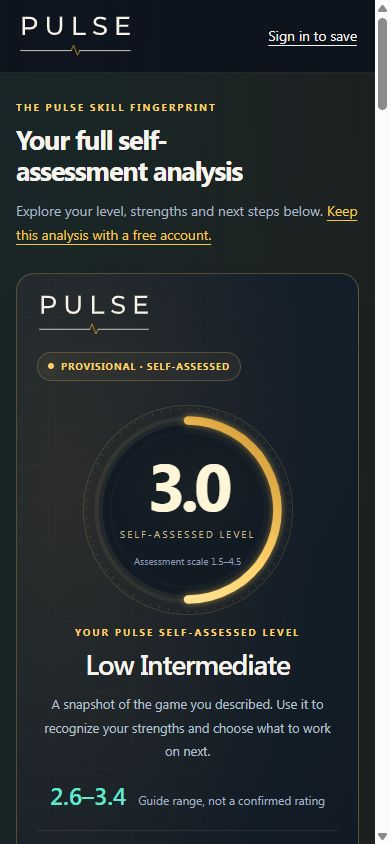
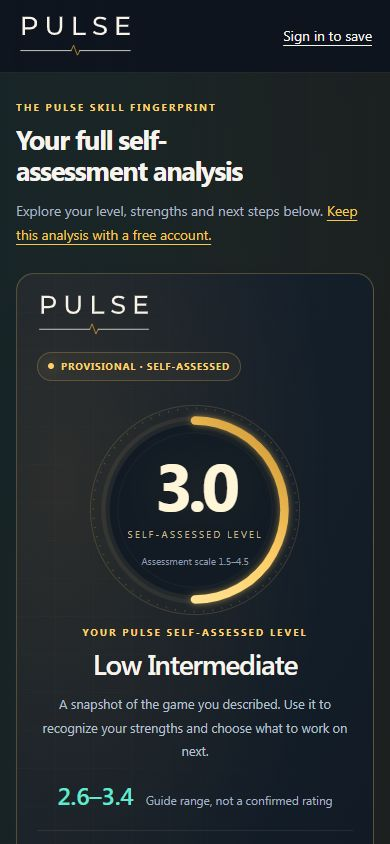
Show complete screenshots and expand homepage tour

diff --git a/tests/marketing/browser/socialFixture.ts b/tests/marketing/browser/socialFixture.ts
@@ -1,0 +1,79 @@
+// Local screenshot data only. All page and shell components are production code.
+// Reads resolve locally; writes fail, and this module never opens a connection.
+import type { FriendWithProfile } from '../../../src/lib/social/friends';
+import type { GroupWithMembership } from '../../../src/hooks/useGroups';
+import type { DirectMessage } from '../../../src/hooks/useDirectMessages';
+
+const noop = () => undefined;
+const blocked = () => { throw new Error('Screenshot fixtures cannot write data.'); };
+const date = '2026-09-23T14:00:00Z';
+const user = { id: 'demo-0' };
+const profile = {
+  id: user.id, full_name: 'Alex Morgan', display_name: 'Alex Morgan',
+  first_name: 'Alex', last_name: 'Morgan', name_locked: true,
+  tutorial_completed: true, player_state: 'active', avatar_url: null,
+  current_rating: 4.25, week_start_rating: 4.21, total_matches: 47,
+  wins: 29, losses: 18, total_points_for: 420, total_points_against: 370,
+  avg_opponent_rating: 4.1, town: 'Boston', state: 'Massachusetts',
+};
+const friends: FriendWithProfile[] = ['Jordan Lee', 'Sam Rivera', 'Taylor Chen', 'Casey Brooks'].map((name, index) => ({
+  id: `friendship-${index}`, user_id: user.id, friend_id: `demo-${index + 1}`,
+  status: 'accepted', created_at: date, accepted_at: date,
+  profile: { id: `demo-${index + 1}`, full_name: name, display_name: name, avatar_url: null, current_rating: [4.1, 3.8, 4.0, 3.6][index], gender: null, handle: name.toLowerCase().replace(' ', '') },
+}));
+const onlineFriends = new Set(['demo-1', 'demo-2']);
+const groups: GroupWithMembership[] = [
+  { name: 'Saturday Court Crew', description: 'Good games and familiar faces. Saturdays at 9.', type: 'crew', member_count: 12 },
+  { name: 'Riverside Open Play', description: 'Meet local players. Find your next game.', type: 'open_play', member_count: 36 },
+  { name: 'Weeknight League', description: 'A new match. A shared season.', type: 'league', member_count: 24 },
+].map((group, index) => ({
+  ...group, type: group.type as GroupWithMembership['type'], id: `group-${index}`,
+  visibility: 'public', join_method: 'open', invite_code: null, invite_code_expires_at: null,
+  cover_url: null, icon_url: null, venue_id: null, court_id: null, created_by: user.id,
+  settings: {}, created_at: date, updated_at: date, unread_count: index === 0 ? 2 : 0,
+  membership: { id: `member-${index}`, group_id: `group-${index}`, user_id: user.id, role: 'member', status: 'active', last_read_at: date, joined_at: date },
+}));
+const messages: DirectMessage[] = [
+  ['demo-1', 'Up for pickleball on Saturday?'],
+  ['demo-0', 'Absolutely! Riverside at 9?'],
+  ['demo-1', 'Perfect. Sam and Taylor are in too.'],
+  ['demo-0', 'Great — doubles it is. I’ll bring the balls.'],
+  ['demo-1', 'See you on court!'],
+].map(([sender_id, content], index) => ({ id: `message-${index}`, conversation_id: 'demo-chat', sender_id, content, created_at: `2026-09-23T14:0${index}:00Z`, _status: 'sent' }));
+const participant = { ...friends[0].profile, user_id: friends[0].profile.id };
+const conversations = [{ id: 'demo-chat', updated_at: date, participant, lastMessage: messages[4], unreadCount: 0, isMuted: false, leftAt: null }];
+
+export const useAuthState = () => ({ user, profile, loading: false, session: null, signOut: blocked, refreshProfile: noop });
+export const useFriends = () => ({ friends, pendingRequests: [], sentRequests: [], loading: false, error: null, isPending: () => false, getFriendshipStatus: () => 'accepted', refetch: noop, acceptRequest: blocked, declineRequest: blocked, cancelRequest: blocked, removeFriend: blocked, sendFriendRequest: blocked });
+export const useFriendsPresence = () => ({ onlineFriends, isConnected: true, isOnline: (id: string) => onlineFriends.has(id), onlineCount: onlineFriends.size });
+export const useFriendSuggestions = () => ({ suggestions: [], loading: false, error: null, refetch: noop, dismissSuggestion: blocked });
+export const useGroups = () => ({ myGroups: groups, publicGroups: groups, loading: false, createGroup: blocked, joinGroupByCode: blocked, joinPublicGroup: blocked, updateGroupOrder: blocked });
+export const useDirectMessages = () => ({ conversations, loading: false, error: null, totalUnread: 0, currentUserId: user.id, startConversation: async () => 'demo-chat', markRead: async () => true, refetch: noop, setMuted: blocked, leaveConversation: blocked });
+export const useConversation = () => ({ messages, loading: false, hasMore: false, loadingOlder: false, loadOlder: noop, participant, viewerMembership: { isMuted: false, leftAt: null }, currentUserId: user.id, notFound: false, sendMessage: blocked, retryMessage: blocked });
+export const useTypingIndicator = () => ({ typingUsers: [], startTyping: noop, stopTyping: noop });
+export const useBlockedUsers = () => ({ blockedUsers: [], loading: false, block: blocked, unblock: blocked });
+export const reportUser = blocked;
+export const useNotifications = () => ({ notifications: [], loading: false, unreadCount: 0, markAsRead: noop, markAllAsRead: noop, deleteNotification: blocked, clearAll: blocked, groupedByTime: {} });
+export const usePushSubscription = () => ({ state: 'enabled', busy: false, supported: false, enable: blocked });
+export const useMyLeagues = () => ({ rows: [], loading: false, error: null });
+export const useMyUpcomingLeagueMatches = () => ({ rows: [], loading: false, error: null });
+export const useUpcomingRegisteredEvents = () => ({ data: [], isLoading: false });
+export const fetchUserRoundRobinEvents = async () => [{ event: { id: 'demo-rr', name: 'Saturday Court Crew', date: '2026-09-26', status: 'live', current_round: 2, num_rounds: 6, num_courts: 2, organizer_id: 'demo-2', voided: false }, role: 'player' }];
+
+function query(table: string) {
+  let single = false;
+  const result = () => ({ data: table === 'profiles' || table === 'profiles_public' ? (single ? profile : [profile]) : single ? null : [], error: null, count: 0 });
+  const chain = new Proxy({}, { get: (_target, property) => {
+    if (property === 'then') return (resolve: (value: ReturnType<typeof result>) => unknown) => Promise.resolve(result()).then(resolve);
+    if (['insert', 'update', 'upsert', 'delete'].includes(String(property))) return blocked;
+    if (property === 'single' || property === 'maybeSingle') return () => { single = true; return chain; };
+    return () => chain;
+  } });
+  return chain;
+}
+const channel = { on: () => channel, subscribe: () => channel, unsubscribe: noop, untrack: noop, track: noop, presenceState: () => ({}) };
+export const supabase = {
+  auth: { getUser: async () => ({ data: { user } }), getSession: async () => ({ data: { session: { user } } }), onAuthStateChange: () => ({ data: { subscription: { unsubscribe: noop } } }), signOut: blocked },
+  from: query, channel: () => channel, removeChannel: noop, rpc: async () => ({ data: [], error: null }),
+  functions: { invoke: blocked }, storage: { from: blocked },
+};

diff --git a/src/components/homepage/marketing.css b/src/components/homepage/marketing.css
@@ -64,9 +64,9 @@
 .mkt-tour-copy { min-height: 76px; }
 .mkt-tour-copy h2 { color: #fff5de; font-size: clamp(19px, 2vw, 25px); line-height: 1.3; letter-spacing: -.025em; }
 .mkt-tour-copy p { color: #bdcdd2; font-size: 12px; line-height: 1.6; margin-top: 7px; }
-.mkt-screen-window { display: block; position: relative; width: 100%; max-width: 390px; margin-inline: auto; height: 392px; padding: 0; overflow: hidden; border-radius: 15px; border: 1px solid #ffffff30; background: #101a24; cursor: zoom-in; }
-.mkt-screen-window img { width: 100%; height: 100%; object-fit: cover; }
-.mkt-screen-expand { position: absolute; right: 10px; top: 10px; display: flex; align-items: center; gap: 6px; padding: 9px 11px; border: 1px solid #ffffff55; border-radius: 30px; background: #111c28ed; color: #fff6df; font-size: 10px; font-weight: 600; }
+.mkt-screen-window { display: block; position: relative; width: 100%; max-width: 260px; margin-inline: auto; height: auto; padding: 0; overflow: hidden; border-radius: 15px; border: 1px solid #ffffff30; background: #101a24; cursor: zoom-in; }
+.mkt-screen-window img { display: block; width: 100%; height: auto; aspect-ratio: 390 / 844; object-fit: contain; }
+.mkt-screen-expand { display: flex; align-items: center; justify-content: center; min-height: 40px; gap: 6px; padding: 9px 11px; border-top: 1px solid #ffffff30; background: #111c28ed; color: #fff6df; font-size: 10px; font-weight: 600; }
 .mkt-tour figcaption { margin-top: 9px; text-align: center; color: #a9bfc5; font-size: 10px; }
 .mkt-tour-controls { display: flex; align-items: center; justify-content: space-between; gap: 12px; margin-top: 10px; }
 .mkt-tour-arrow { display: grid; place-items: center; width: 44px; height: 44px; flex-shrink: 0; border: 1px solid #ffffff30; border-radius: 50%; color: #fff3d6; }
@@ -74,7 +74,7 @@
 .mkt-tour-arrow:disabled { opacity: .3; cursor: default; }
 .mkt-tour-controls p { display: flex; align-items: center; gap: 12px; font-size: 12px; }
 .mkt-tour-controls p span { color: #a9bfc5; font-variant-numeric: tabular-nums; font-size: 10px; }
-.mkt-tour-pills { display: grid; grid-template-columns: repeat(4,minmax(0,1fr)); gap: 5px; margin-top: 12px; }
+.mkt-tour-pills { display: grid; grid-template-columns: repeat(4,minmax(0,1fr)); gap: 5px; margin-block: 0 16px; }
 .mkt-tour-pills button { min-height: 44px; padding: 7px 3px; border-radius: 8px; border: 1px solid #ffffff1c; font-size: 10px; color: #bfcfd2; line-height: 1.3; }
 .mkt-tour-pills button[aria-pressed=true] { color: #111c28; background: #8de6ce; border-color: #8de6ce; font-weight: 700; }
 .mkt-screen-dialog[role="dialog"] { width: min(calc(100% - 24px), 460px); max-width: 460px; max-height: 92vh; max-height: 92dvh; overflow-y: auto; padding: 22px 16px 16px; border-radius: 18px; background: #16232e; color: #fff5df; }
@@ -144,10 +144,10 @@
   .mkt-nav-inner { min-height: 68px; }
   .mkt-hero-grid { gap: 30px; } .mkt-hero h1 { font-size: 50px; }
   .mkt-hero-description { font-size: 16px; }
-  .mkt-tour { padding: 14px; } .mkt-screen-window { height: 340px; }
+  .mkt-tour { padding: 14px; } .mkt-screen-window { max-width: 240px; }
   .mkt-tour-copy { min-height: 85px; } .mkt-tour-copy h2 { font-size: 20px; }
   .mkt-tour-hint { font-size: 9px; }
-  .mkt-tour-pills { grid-template-columns: repeat(2,minmax(0,1fr)); }
+
   .mkt-assessment-inner { grid-template-columns: auto 1fr; } .mkt-assessment-inner > .mkt-button { grid-column: 2; justify-self: start; }
   .mkt-organizer-grid { gap: 28px; } .mkt-faq-grid { grid-template-columns: 1fr; gap: 0; }
   .mkt-closing-grid { grid-template-columns: 1fr; gap: 28px; } .mkt-closing-actions { justify-self: start; }
@@ -167,8 +167,8 @@
   .mkt-tour { padding: 14px; border-radius: 20px; }
   .mkt-tour-top { margin-bottom: 12px; } .mkt-tour-copy { min-height: 73px; } .mkt-tour-copy h2 { font-size: 20px; }
   .mkt-tour-copy p { font-size: 11px; }
-  .mkt-screen-window { height: 310px; }
-  .mkt-tour-pills { grid-template-columns: repeat(4,minmax(0,1fr)); gap: 4px; margin-top: 8px; }
+  .mkt-screen-window { max-width: 260px; }
+  .mkt-tour-pills { grid-template-columns: repeat(4,minmax(0,1fr)); gap: 4px; margin-block: 0 14px; }
   .mkt-tour-pills button { font-size: 9px; }
   .mkt-tour-controls { margin-top: 7px; } .mkt-tour-controls p { font-size: 11px; }
   .mkt-section { padding-block: 42px; } .mkt-section-heading { margin-bottom: 22px; }

diff --git a/tests/marketing/browser/capture.html b/tests/marketing/browser/capture.html
@@ -1,4 +1,16 @@
-<!doctype html><html lang="en"><head><meta charset="utf-8"><meta name="viewport" content="width=device-width,initial-scale=1"><title>PULSE · Screenshot studio</title><style>body{margin:0;min-height:844px;background:#30343a;font:14px system-ui;color:white}header{position:absolute;left:430px;top:24px;display:flex;gap:12px;align-items:center}select{padding:10px;color:black}iframe{position:absolute;left:0;top:0;display:block;border:0;width:390px;height:844px;background:#121c28}</style></head><body><header><label>Screen <select id="screen"><option value="profile">Profile</option><option value="round-robin">Round robin</option><option value="league">League</option><option value="assessment">Assessment</option><option value="home">Homepage</option><option value="home-dark">Homepage (dark)</option></select></label><label>Width <select id="width"><option>320</option><option selected>390</option><option>768</option><option>1440</option></select></label></header><iframe title="Actual PULSE screen" src="http://127.0.0.1:5209/tests/profile/browser/index.html?short-name&member&marketing"></iframe><script>
-const sources={profile:'http://127.0.0.1:5209/tests/profile/browser/index.html?short-name&member&marketing','round-robin':'http://127.0.0.1:5208/tests/round-robin/event-browser/index.html?player&dark',league:'/tests/marketing/browser/index.html?league&dark',assessment:'http://127.0.0.1:5198/tests/skill/browser/index.html?capture',home:'/tests/marketing/browser/index.html','home-dark':'/tests/marketing/browser/index.html?dark'};
-document.querySelector('#screen').addEventListener('change',event=>{document.querySelector('iframe').src=sources[event.target.value]});document.querySelector('#width').addEventListener('change',event=>{document.querySelector('iframe').style.width=event.target.value+'px'});
+<!doctype html>
+<html lang="en"><head><meta charset="utf-8"><meta name="viewport" content="width=device-width,initial-scale=1"><title>PULSE · Screenshot studio</title>
+<style>html,body{overflow:hidden}body{margin:0;min-height:844px;background:#30343a;font:14px system-ui;color:white}header{position:absolute;left:430px;top:24px;display:flex;gap:12px;align-items:center}select{padding:10px;color:black}iframe{position:absolute;left:0;top:0;display:block;border:0;width:390px;height:844px;background:#121c28}</style></head>
+<body><header><label>Screen <select id="screen"><option value="app-home">App home</option><option value="friends">Friends</option><option value="chat">Chat</option><option value="communities">Communities</option><option value="profile">Profile</option><option value="round-robin">Round robin</option><option value="league">League</option><option value="assessment">Assessment</option><option value="home">Homepage</option><option value="home-dark">Homepage (dark)</option></select></label><label>Width <select id="width"><option>320</option><option selected>390</option><option>768</option><option>1440</option></select></label></header>
+<iframe title="Actual PULSE screen" src="/tests/marketing/browser/index.html?screen=app-home&dark&capture"></iframe>
+<script>
+const sources={
+  ...Object.fromEntries(['app-home','friends','chat','communities','profile'].map(screen=>[screen,'/tests/marketing/browser/index.html?screen='+screen+'&dark&capture'])),
+  'round-robin':'http://127.0.0.1:5208/tests/round-robin/event-browser/index.html?player&dark&capture',
+  league:'/tests/marketing/browser/index.html?league&dark&capture',
+  assessment:'http://127.0.0.1:5198/tests/skill/browser/index.html?capture',
+  home:'/tests/marketing/browser/index.html','home-dark':'/tests/marketing/browser/index.html?dark'
+};
+document.querySelector('#screen').addEventListener('change',event=>{document.querySelector('iframe').src=sources[event.target.value]});
+document.querySelector('#width').addEventListener('change',event=>{document.querySelector('iframe').style.width=event.target.value+'px'});
 </script></body></html>

diff --git a/src/components/homepage/productScreens.ts b/src/components/homepage/productScreens.ts
@@ -1,9 +1,13 @@
-/** Unedited browser captures of production components with local demo data.
+/** Browser captures of production screens with local demo data.
  * Capture sources and refresh instructions: tests/marketing/browser/README.md.
  */
 export const productScreens = [
-  { key: 'assessment', label: 'Skill assessment', title: 'Know what to work on next.', description: 'Your level, your strengths, your next focus.', src: '/images/product/assessment.jpg', alt: 'PULSE self-assessment report with a provisional level, guide range and evidence support.', position: 'center 65%', accent: 'teal' },
-  { key: 'profile', label: 'Your PULSE', title: 'Keep your game together.', description: 'Your rating, results, events and connections.', src: '/images/product/profile.jpg', alt: 'PULSE player profile showing a rating, match count, win–loss record and community links.', position: 'top', accent: 'gold' },
-  { key: 'round-robin', label: 'Round robins', title: 'Less organizing. More playing.', description: 'Know your court, your partner and who’s up next.', src: '/images/product/round-robin.jpg', alt: 'PULSE live round-robin screen showing Court 1, both teams and the player’s next round.', position: 'center', accent: 'gold' },
-  { key: 'league', label: 'Leagues', title: 'Give every game a bigger story.', description: 'Follow your season, scores and standings.', src: '/images/product/league.jpg', alt: 'PULSE league page with confirmed results and ranked player standings.', position: 'center 35%', accent: 'teal' },
+  { key: 'app-home', label: 'App home', title: 'Your game starts here.', description: 'Your stats, next games and quick actions.', src: '/images/product/app-home.jpg', alt: 'PULSE app home with player stats, quick actions and bottom navigation.' },
+  { key: 'friends', label: 'Friends', title: 'Find your next doubles partner.', description: 'Keep your friends and playing partners close.', src: '/images/product/friends.jpg', alt: 'PULSE Friends page showing connected players, online status and message buttons.' },
+  { key: 'chat', label: 'Chat', title: 'Turn a message into a match.', description: 'Make plans in a direct conversation.', src: '/images/product/chat.jpg', alt: 'PULSE direct chat showing a conversation arranging a Saturday doubles game.' },
+  { key: 'communities', label: 'Communities', title: 'Make your crew feel connected.', description: 'One place for your groups, clubs and leagues.', src: '/images/product/communities.jpg', alt: 'PULSE Community page showing pickleball groups, member counts and unread updates.' },
+  { key: 'assessment', label: 'Skill assessment', title: 'Know what to work on next.', description: 'Your level, your strengths, your next focus.', src: '/images/product/assessment.jpg', alt: 'PULSE self-assessment report with a provisional level, guide range and evidence support.' },
+  { key: 'profile', label: 'Your PULSE', title: 'Keep your game together.', description: 'Your rating, results, events and connections.', src: '/images/product/profile.jpg', alt: 'PULSE player profile showing a rating, match count, win–loss record and community links.' },
+  { key: 'round-robin', label: 'Round robins', title: 'Less organizing. More playing.', description: 'Know your court, your partner and who’s up next.', src: '/images/product/round-robin.jpg', alt: 'PULSE live round-robin screen showing Court 1, both teams and the player’s next round.' },
+  { key: 'league', label: 'Leagues', title: 'Give every game a bigger story.', description: 'Follow your season, scores and standings.', src: '/images/product/league.jpg', alt: 'PULSE league overview showing the league name, season record and Standings navigation.' },
 ] as const;

diff --git a/src/components/homepage/FeatureTour.tsx b/src/components/homepage/FeatureTour.tsx
@@ -37,13 +37,14 @@ export function FeatureTour() {
 
   return <div ref={region} className="mkt-tour" id="product-tour" role="region" aria-roledescription="carousel" aria-label="Explore PULSE features" tabIndex={0} onKeyDown={keyboard}>
     <div className="mkt-tour-top"><span><i aria-hidden="true" /> INSIDE PULSE</span><span className="mkt-tour-hint">Swipe or choose a feature</span></div>
+    <div className="mkt-tour-pills" role="group" aria-label="Choose a feature">{screens.map((screen, index) => <button key={screen.key} type="button" aria-pressed={index === selected} onClick={() => api?.scrollTo(index)}>{screen.label}</button>)}</div>
     <div className="mkt-tour-viewport" ref={viewport}>
       <div className="mkt-tour-track">
-        {screens.map((screen, index) => <div className={`mkt-tour-slide mkt-tour-${screen.accent}`} key={screen.key} role="group" aria-roledescription="slide" aria-label={`${index + 1} of ${screens.length}: ${screen.label}`} aria-hidden={index !== selected}>
+        {screens.map((screen, index) => <div className="mkt-tour-slide" key={screen.key} role="group" aria-roledescription="slide" aria-label={`${index + 1} of ${screens.length}: ${screen.label}`} aria-hidden={index !== selected}>
           <div className="mkt-tour-copy"><h2>{screen.title}</h2><p>{screen.description}</p></div>
           <figure>
             <button type="button" className="mkt-screen-window" onClick={event => { opener.current = event.currentTarget; setExpanded(index); }} tabIndex={index === selected ? 0 : -1} aria-label={`Enlarge ${screen.label.toLowerCase()} screenshot`}>
-              <img src={screen.src} alt={screen.alt} width={390} height={844} loading={index === 0 ? 'eager' : 'lazy'} fetchPriority={index === 0 ? 'high' : 'auto'} decoding="async" style={{ objectPosition: screen.position }} />
+              <img src={screen.src} alt={screen.alt} width={390} height={844} loading={index === 0 ? 'eager' : 'lazy'} fetchPriority={index === 0 ? 'high' : 'auto'} decoding="async" />
               <span className="mkt-screen-expand"><Expand aria-hidden="true" size={14} /> View screen</span>
             </button>
             <figcaption>Actual PULSE screen · Demo data</figcaption>
@@ -56,7 +57,6 @@ export function FeatureTour() {
       <p aria-live="polite" aria-atomic="true"><strong>{screens[selected].label}</strong><span>{selected + 1} / {screens.length}</span></p>
       <button type="button" className="mkt-tour-arrow" aria-label="Next feature" disabled={selected === screens.length - 1} onClick={() => api?.scrollNext()}><ArrowRight aria-hidden="true" size={18} /></button>
     </div>
-    <div className="mkt-tour-pills" role="group" aria-label="Choose a feature">{screens.map((screen, index) => <button key={screen.key} type="button" aria-pressed={index === selected} onClick={() => api?.scrollTo(index)}>{screen.label}</button>)}</div>
     <Dialog open={expanded !== null} onOpenChange={open => { if (!open) setExpanded(null); }}>
       <DialogContent className="mkt-screen-dialog" onCloseAutoFocus={event => { event.preventDefault(); opener.current?.focus(); }}>
         <DialogTitle>{expanded !== null ? screens[expanded].label : 'PULSE screen'}</DialogTitle>

diff --git a/tests/marketing/browser/preview.tsx b/tests/marketing/browser/preview.tsx
@@ -5,8 +5,32 @@ import { HelmetProvider } from 'react-helmet-async';
 import { ThemeProvider } from 'next-themes';
 import { PublicHomepage } from '../../../src/components/homepage/PublicHomepage';
 import PlayerLeagueDetail from '../../../src/pages/player/PlayerLeagueDetail';
+import Dashboard from '../../../src/pages/Dashboard';
+import Friends from '../../../src/pages/player/Friends';
+import DirectMessageChat from '../../../src/pages/player/DirectMessageChat';
+import Community from '../../../src/pages/player/Community';
+import PlayerProfile from '../../../src/pages/player/PlayerProfile';
+import { PlayerShell } from '../../../src/components/layout/PlayerShell';
+import { ActiveViewProvider } from '../../../src/contexts/ActiveViewContext';
+import { QueryClient, QueryClientProvider } from '@tanstack/react-query';
 import '../../../src/index.css';
 import '../../../src/components/homepage/marketing.css';
+import './capture.css';
 
 const params = new URLSearchParams(window.location.search);
-createRoot(document.getElementById('root')!).render(<ThemeProvider attribute="class" forcedTheme={params.has('dark') ? 'dark' : 'light'}><HelmetProvider><MemoryRouter initialEntries={[params.has('league') ? '/player/leagues/demo-league' : '/']}><Routes><Route path="/" element={<PublicHomepage />} /><Route path="/player/leagues/:leagueId" element={<PlayerLeagueDetail />} /><Route path="*" element={<p>Local preview destination reached.</p>} /></Routes></MemoryRouter></HelmetProvider></ThemeProvider>);
+if (params.has('capture')) document.documentElement.classList.add('product-capture');
+const destinations: Record<string, string> = { 'app-home': '/player/dashboard', friends: '/player/friends', chat: '/player/messages/demo-chat', communities: '/player/community', profile: '/player/profile' };
+const route = params.has('league') ? '/player/leagues/demo-league' : destinations[params.get('screen') ?? ''] ?? '/';
+const client = new QueryClient({ defaultOptions: { queries: { retry: false } } });
+createRoot(document.getElementById('root')!).render(<QueryClientProvider client={client}><ThemeProvider attribute="class" forcedTheme={params.has('dark') ? 'dark' : 'light'}><HelmetProvider><MemoryRouter initialEntries={[route]}><ActiveViewProvider><Routes>
+  <Route path="/" element={<PublicHomepage />} />
+  <Route element={<PlayerShell />}>
+    <Route path="/player/leagues/:leagueId" element={<PlayerLeagueDetail />} />
+    <Route path="/player/dashboard" element={<Dashboard />} />
+    <Route path="/player/friends" element={<Friends />} />
+    <Route path="/player/messages/:conversationId" element={<DirectMessageChat />} />
+    <Route path="/player/community" element={<Community />} />
+    <Route path="/player/profile" element={<PlayerProfile />} />
+  </Route>
+  <Route path="*" element={<p>Local preview destination reached.</p>} />
+</Routes></ActiveViewProvider></MemoryRouter></HelmetProvider></ThemeProvider></QueryClientProvider>);

diff --git a/tests/marketing/browser/vite.config.ts b/tests/marketing/browser/vite.config.ts
@@ -2,12 +2,14 @@ import { defineConfig } from 'vite';
 import react from '@vitejs/plugin-react-swc';
 import path from 'node:path';
 const fixture = path.resolve(__dirname, 'leagueFixture.ts');
+const socialFixture = path.resolve(__dirname, 'socialFixture.ts');
 export default defineConfig({
   plugins: [react()], cacheDir: 'node_modules/.vite-marketing-qa',
   define: { 'import.meta.env.VITE_SKILL_ASSESSMENT': JSON.stringify('on') },
   optimizeDeps: { entries: ['tests/marketing/browser/index.html'] },
   resolve: { alias: [
-    ...['hooks/useLeagueDetailForPlayer', 'integrations/supabase/client'].map(name => ({ find: `@/${name}`, replacement: fixture })),
+    { find: '@/hooks/useLeagueDetailForPlayer', replacement: fixture },
+    ...['integrations/supabase/client', 'hooks/useAuthState', 'hooks/useFriends', 'hooks/useFriendsPresence', 'hooks/useFriendSuggestions', 'hooks/useGroups', 'hooks/useDirectMessages', 'hooks/useTypingIndicator', 'hooks/useMessagingSafety', 'hooks/useNotifications', 'hooks/usePushSubscription', 'hooks/useMyLeagues', 'hooks/useMyUpcomingLeagueMatches', 'hooks/useDiscoverEvents', 'lib/roundRobin/userEvents'].map(name => ({ find: `@/${name}`, replacement: socialFixture })),
     { find: '@', replacement: path.resolve(__dirname, '../../../src') },
   ] },
 });

diff --git a/tests/skill/browser/preview.tsx b/tests/skill/browser/preview.tsx
@@ -14,6 +14,8 @@ import { AuthStateProvider } from '../../../src/hooks/useAuthState';
 import { failNextSave, resetPreview, seedReady, seedUnknown, seedGuest, signInPreview, signOutPreview, enablePreviewMfa, setPreviewStall, type PreviewStall } from './stub';
 import '../../../src/index.css';
 import '../../../src/components/homepage/marketing.css';
+import '../../marketing/browser/capture.css';
+if (new URLSearchParams(window.location.search).has('capture')) document.documentElement.classList.add('product-capture');
 function RememberRoute() { const loc = useLocation(); useEffect(() => { localStorage.setItem('skill-preview-route', loc.pathname + loc.search); }, [loc]); return null; }
 export default function Preview() {
   const capture = new URLSearchParams(window.location.search).has('capture');

diff --git a/tests/round-robin/event-browser/preview.tsx b/tests/round-robin/event-browser/preview.tsx
@@ -6,8 +6,10 @@ import { ThemeProvider } from 'next-themes';
 import { Toaster } from 'sonner';
 import RoundRobinDetail from '../../../src/pages/RoundRobinDetail';
 import '../../../src/index.css';
+import '../../marketing/browser/capture.css';
 import { advancePreviewRound } from './stub';
 const params = new URLSearchParams(window.location.search);
+if (params.has('capture')) document.documentElement.classList.add('product-capture');
 const query = new QueryClient({ defaultOptions: { queries: { retry: false } } });
 createRoot(document.getElementById('root')!).render(
   <ThemeProvider attribute="class" forcedTheme={params.has('dark') ? 'dark' : 'light'}>

diff --git a/tests/marketing/publicHomepage.test.tsx b/tests/marketing/publicHomepage.test.tsx
@@ -85,7 +85,7 @@ describe("public homepage", () => {
     const html = render(<PublicHomepage />);
     expect(html).not.toContain('src="/images/product/assessment.jpg"');
     expect(html).toContain('src="/images/product/profile.jpg"');
-    expect(html).toContain('1 of 3: Your PULSE');
+    expect(html).toContain('1 of 7: App home');
   });
   it("explains pricing, devices, ratings, and existing groups with native accessible disclosures", () => {
     const html = render(<PublicHomepage />);

diff --git a/tests/marketing/browser/capture.css b/tests/marketing/browser/capture.css
@@ -1,0 +1,4 @@
+/* Match mobile scrollbar presentation when capturing on a desktop browser.
+   No application content, layout, typography or controls are changed. */
+html.product-capture, .product-capture * { scrollbar-width: none !important; }
+.product-capture::-webkit-scrollbar, .product-capture *::-webkit-scrollbar { display: none; }

diff --git a/tests/marketing/browser/README.md b/tests/marketing/browser/README.md
@@ -1,62 +1,71 @@
 # Homepage screenshots and browser QA
 
-The four JPEGs in `public/images/product/` are unedited browser captures of real
-PULSE components, rendered at 390 × 844 using synthetic local data. They contain
-no customer records and are labeled “Actual PULSE screen · Demo data” on the
-homepage. These are screenshots, not interactive app sessions. The homepage's
-“View screen” control opens the whole capture for easier reading.
+The eight JPEGs in `public/images/product/` capture actual PULSE pages at
+390 × 844 with synthetic local data. The page layouts, controls, and navigation
+are production components. The capture harness only hides desktop scrollbars
+to match a phone; it does not reconstruct or composite the screens. No customer
+records, private conversations, live backend, generated artwork, or external
+image host is used. The homepage labels every capture “Actual PULSE screen ·
+Demo data” and offers a larger view.
 
-Captured September 23, 2026, from the application at `33774858` plus the local
-capture harness in this change. No generated artwork, reconstructed interface,
-external image host, or live backend is used.
+Refreshed September 23, 2026, from application base `ba51c9c7` with this local
+capture harness. Every screen is captured from the top. The league capture
+starts at the league header, not partway through the Standings section.
 
 | Asset | Actual screen | Local source |
 | --- | --- | --- |
+| `app-home.jpg` | Player dashboard with real shell | `?screen=app-home&dark&capture` |
+| `friends.jpg` | Friends list with real shell | `?screen=friends&dark&capture` |
+| `chat.jpg` | Direct conversation | `?screen=chat&dark&capture` |
+| `communities.jpg` | Community hub with real shell | `?screen=communities&dark&capture` |
+| `profile.jpg` | Player profile with real shell | `?screen=profile&dark&capture` |
 | `assessment.jpg` | Guest Skill Assessment report | Skill browser harness, `?capture`, completed synthetic answers |
-| `profile.jpg` | Player profile | Profile browser harness, `?short-name&member&marketing` |
-| `round-robin.jpg` | Player's current court and next rounds | Round-robin event harness, `?player&dark` |
-| `league.jpg` | League standings | `PlayerLeagueDetail`, `?league&dark`, Standings button |
+| `round-robin.jpg` | Player's current court and next rounds | Round-robin event harness, `?player&dark&capture` |
+| `league.jpg` | League overview and standings | `?league&dark&capture` |
 
 ## Refresh captures
 
-Start each existing Vite fixture server from the repository root in a separate
-terminal. The fixture aliases replace data access, while rendering the same
-components used in production:
+Start the existing Vite fixture servers from the repository root in separate
+terminals (reuse an already-running server on the same port):
 
 ```sh
 node node_modules/vite/bin/vite.js --config tests/skill/browser/vite.config.ts --host 127.0.0.1 --port 5198 --strictPort
 node node_modules/vite/bin/vite.js --config tests/round-robin/event-browser/vite.config.ts --host 127.0.0.1 --port 5208 --strictPort
-node node_modules/vite/bin/vite.js --config tests/profile/browser/vite.config.ts --host 127.0.0.1 --port 5209 --strictPort
 node node_modules/vite/bin/vite.js --config tests/marketing/browser/vite.config.ts --host 127.0.0.1 --port 5210 --strictPort
 ```
 
 Open `http://127.0.0.1:5210/tests/marketing/browser/capture.html`, select a
-screen, and keep the width at 390. Complete the assessment with synthetic
-answers first if the local skill harness has no guest report. For leagues,
-select Standings before capture. Capture the iframe at x=0, y=0, width=390,
-height=844. Save the browser's JPEG bytes directly, without compositing or
-altering the screen. Check the file's actual encoding when choosing its suffix.
+screen, and keep width 390. Complete the assessment with synthetic answers first
+if the local skill harness has no guest report. Dismiss the dashboard's actual
+Getting started card if shown, then reload the capture to return to the top.
+Wait for fonts, images, and entrance animations to settle. Confirm the logo or
+page header is completely visible. Do not scroll to a section before capture.
 
-The `marketing` profile parameter adds a synthetic 47-match, 29–18 record.
-League standings use the real production calculation with six synthetic
-confirmed matches. Fixture actions are not connected to production.
+Use a browser viewport at least 844px tall so the entire phone frame is painted,
+including fixed bottom navigation. Capture the iframe at x=0, y=0, width=390,
+height=844. Save and review the same captured bytes. Save the browser's JPEG
+bytes directly. Do not crop, repaint, or overlay the image. The parent capture
+page hides its own overflow so controls outside the iframe do not create white
+scrollbar strips in the exported image.
+
+`socialFixture.ts` supplies a synthetic player, friends, three communities and
+a five-message conversation. Read queries resolve locally; mutation methods
+throw. `leagueFixture.ts` supplies six confirmed matches for the production
+standings calculation. Keep these fixtures outside the production build.
 
 ## Responsive and interaction checks
 
-Select Homepage in the capture harness; check widths 320, 390, 768 and 1440.
-The separate `responsive.html` harness can also inspect the full app at its own
-origin. The carousel's intentionally clipped offscreen slides should not be
-counted as page overflow.
+Select Homepage; check 320, 390, 768 and 1440 px in light and dark themes.
 
-- Check header/logo, first CTA, every image, text wrapping, no page overflow.
-- Use arrows and feature buttons; verify disabled arrows at both ends.
-- Drag horizontally to change slides; vertical scrolling must still work.
+- The image must retain its 390:844 ratio, with both top and bottom edges
+  visible. The View screen control must sit below it without covering content.
+- Confirm all eight images load, with no page overflow or clipped feature names.
+- Use arrows, feature buttons, and a horizontal drag; verify the end stops.
 - Focus the carousel and use Left/Right, Home and End.
-- Open each enlarged screenshot; Close/Escape must return focus to its opener.
-- Check light and dark themes (`?dark` in the homepage fixture), mobile menu,
-  native FAQ disclosures, and navigation to assessment/signup destinations.
-- With reduced motion enabled, slides should change without animation. There
-  is no autoplay; the decorative pulse stops after two cycles.
+- Open enlarged captures; Close/Escape must return focus to the opener.
+- Verify mobile menu, assessment and signup destinations remain available.
+- Reduced motion removes carousel animation. There is no autoplay.
 
 The homepage unit tests protect public destinations, feature-flag behavior,
-accessible initial controls, local image resources, and demo-data labeling.
+accessible controls, image resources and demo-data labeling. Framing and image
+legibility are verified in the browser at the four widths above.
